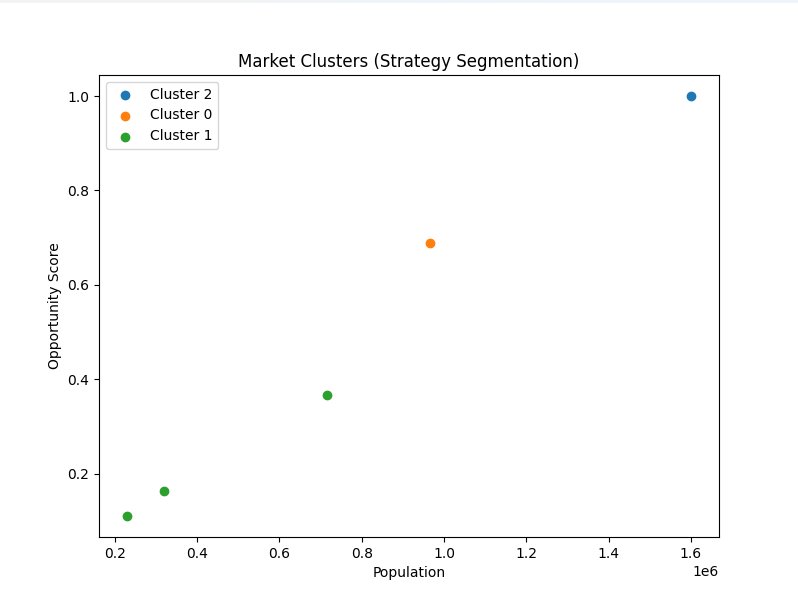
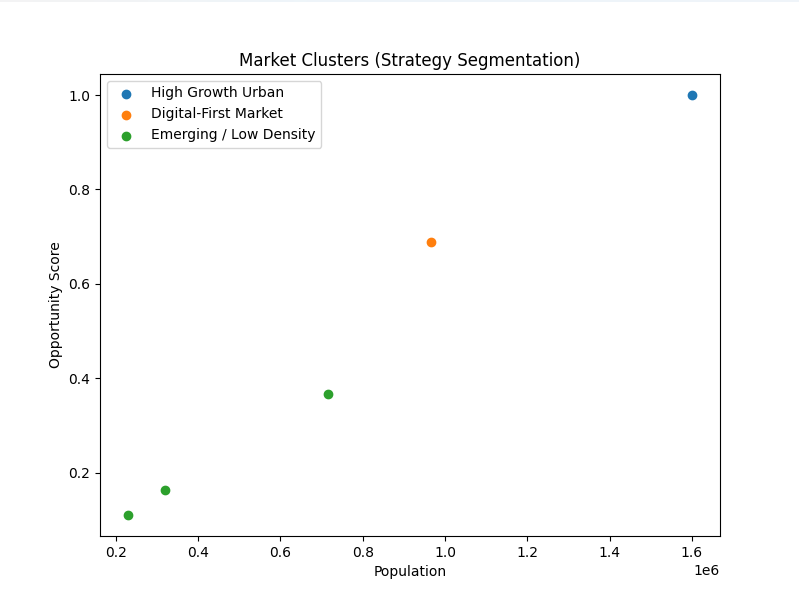
Added label titles to clusters

diff --git a/src/visualization.py b/src/visualization.py
@@ -24,7 +24,7 @@ def plot_clusters(df):
         plt.scatter(
             subset["population"],
             subset["opportunity_score"],
-            label=f"Cluster {cluster}"
+            label=subset["cluster_label"].iloc[0]
         )
 
     plt.xlabel("Population")
